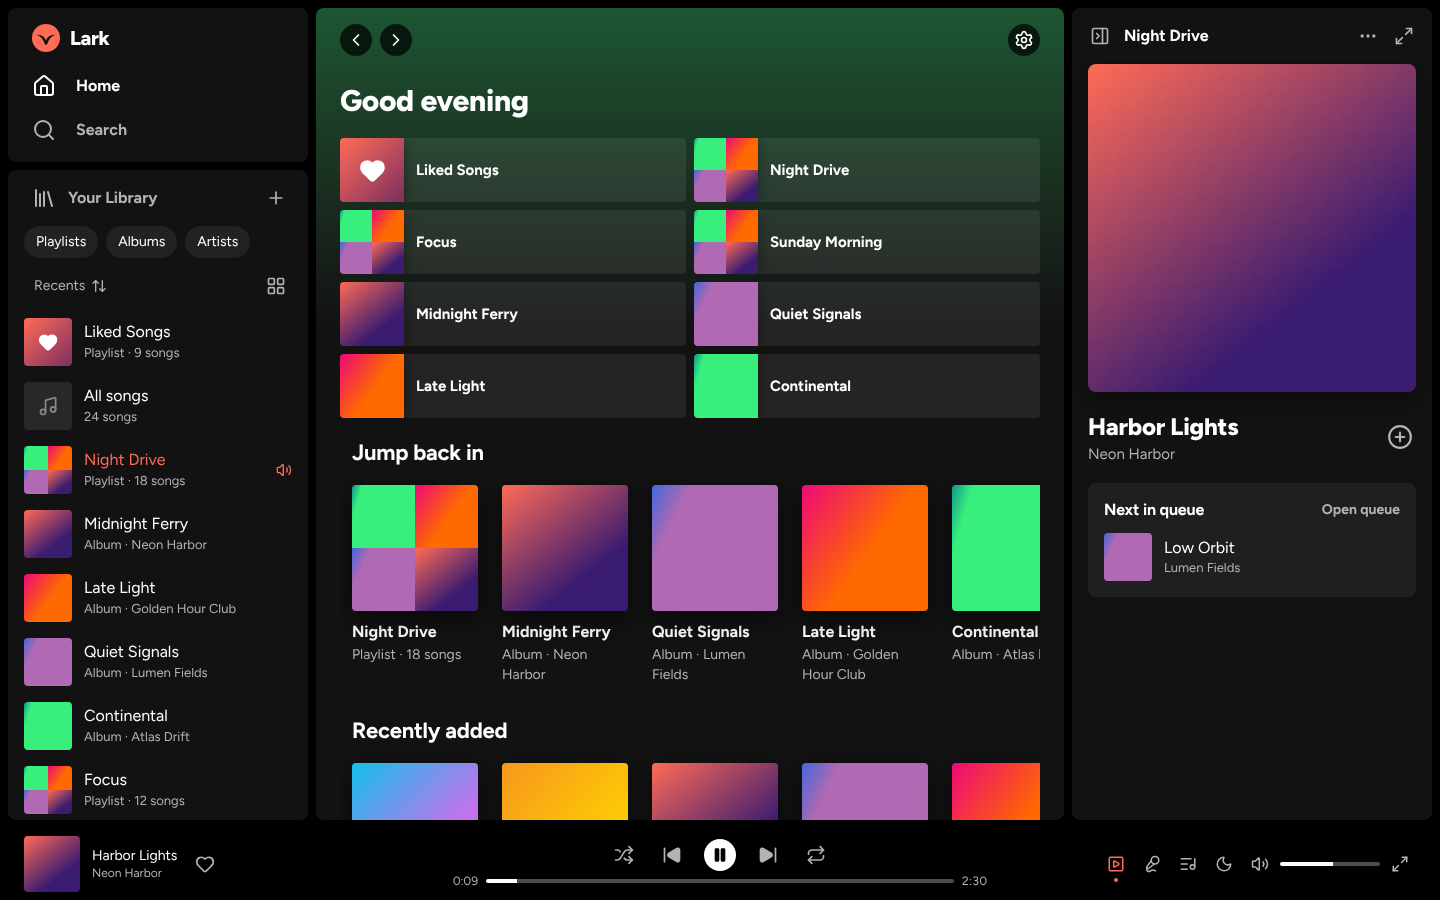
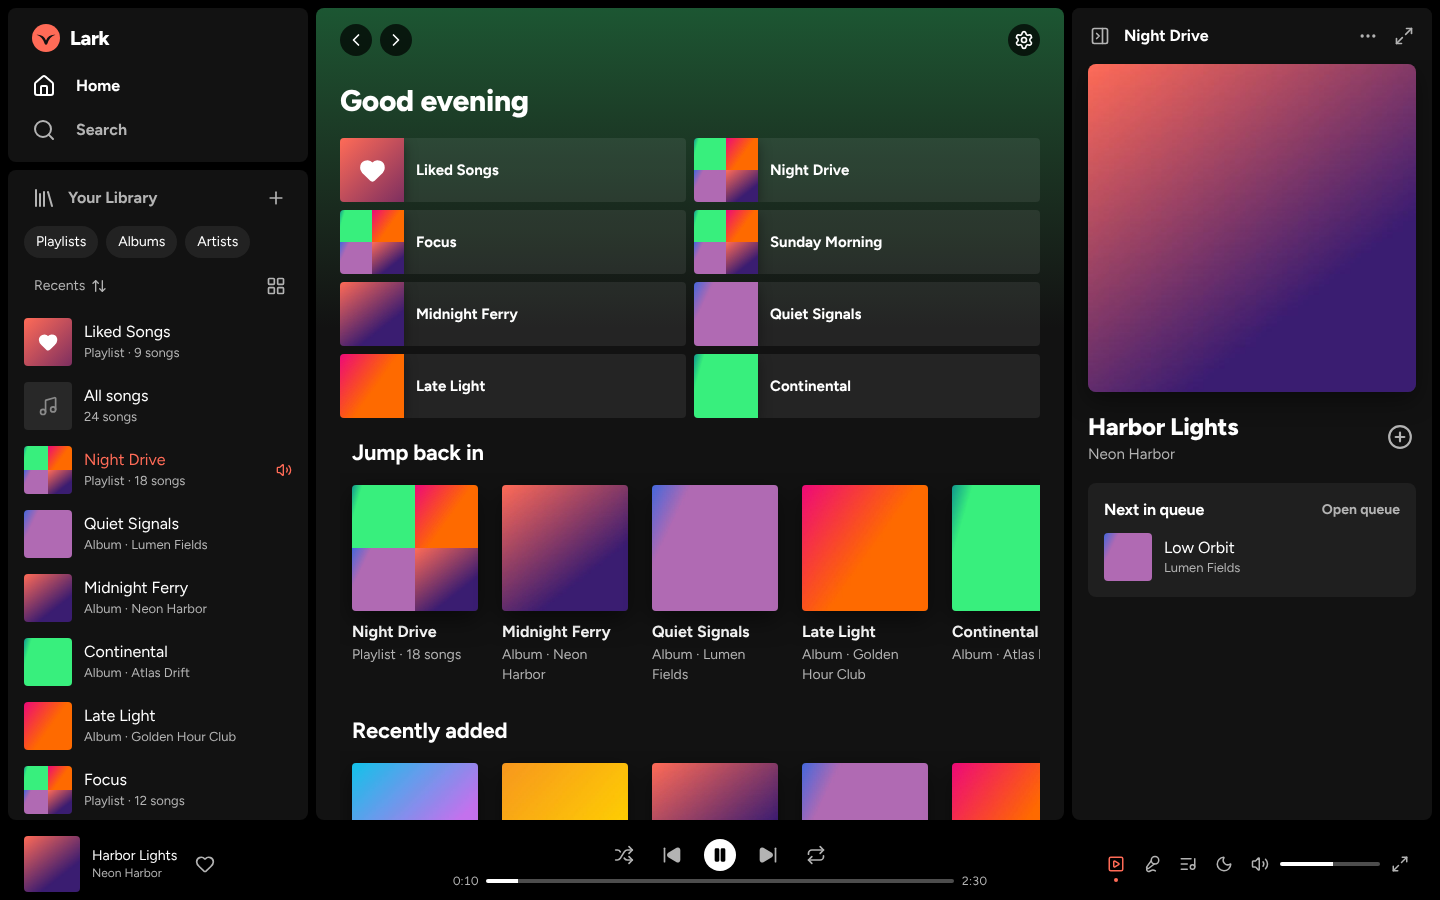
Remove albums, artists and All songs from Your Library
Right-click (long-press on phones) → "Remove from Your Library" hides an
album, artist, All songs or Liked Songs from the Your Library list, with
Undo. Nothing is deleted; the item's own ⋯ menu offers "Add to Your
Library". Saved with the library settings. Test added.

Claude-Session: https://claude.ai/code/session_016covFTdUFWBo4vfXdR9J8w

Changed region(s): [[0.0, 0.56, 0.1562, 0.84]]

diff --git a/src/js/ui/actions.js b/src/js/ui/actions.js
@@ -84,7 +84,7 @@ export function ctxMenu(c, at) {
       } }];
     items = tidy(items);
   } else if (c.type === 'album' || c.type === 'artist') {
-    items = [...queueItems, { label: 'Add to playlist', icon: 'list-plus', sub: () => addToPlaylistItems(ids()) }, '-',
+    items = [...queueItems, { label: 'Add to playlist', icon: 'list-plus', sub: () => addToPlaylistItems(ids()) }, libraryItem(c), '-',
       { label: c.type === 'album' ? 'Edit album' : `Edit all songs by this artist`, icon: 'pencil', run: () => bulkEdit(ids()) }];
     if (c.type === 'album') {
       const a = store.albums().get(c.id);
@@ -98,9 +98,19 @@ export function ctxMenu(c, at) {
         if (await confirmDialog('Delete folder?', `"${f.name}" will be deleted. Its playlists are kept.`)) { await store.deleteFolder(f.id); if (location.hash === `#/folder/${f.id}`) go('#/'); }
       } },
     ];
-  } else items = [...queueItems, { label: 'Add to playlist', icon: 'list-plus', sub: () => addToPlaylistItems(ids()) }];
+  } else items = [...queueItems, { label: 'Add to playlist', icon: 'list-plus', sub: () => addToPlaylistItems(ids()) }, ...(c.type === 'liked' || c.type === 'songs' ? [libraryItem(c)] : [])];
   const info = itemInfo(c);
   openMenu(items, at, info && { title: info.name, sub: info.sub, cover: coverHtml(info.covers, { liked: info.liked, icon: info.icon, cls: 'sm' }) });
+}
+
+/** "Remove from Your Library" (hides it from the list; nothing is deleted) / "Add to Your Library". */
+function libraryItem(c) {
+  const hidden = store.isHiddenInLibrary(c);
+  if (hidden) return { label: 'Add to Your Library', icon: 'circle-plus', run: () => { store.setHiddenInLibrary(c, false); toast('Added to Your Library'); } };
+  return { label: 'Remove from Your Library', icon: 'circle-minus', run: () => {
+    store.setHiddenInLibrary(c, true);
+    toast('Removed from Your Library', { label: 'Undo', run: () => store.setHiddenInLibrary(c, false) });
+  } };
 }
 
 /** Play a whole context (big play buttons), or pause/resume if it is already playing. */

diff --git a/src/js/ui/library.js b/src/js/ui/library.js
@@ -20,12 +20,12 @@ function items() {
       out.push({ c: { type: 'playlist', id: p.id }, name: p.name, pinned: p.pinned, added: p.createdAt, recent: Math.max(p.playedAt || 0, p.createdAt) });
     }
   }
-  if (f === 'all' || f === 'albums') for (const a of store.albums().values()) out.push({ c: { type: 'album', id: a.key }, name: a.name, added: a.addedAt, recent: Math.max(recent.get(`album:${a.key}`) || 0, a.addedAt) });
-  if (f === 'all' || f === 'artists') for (const a of store.artists().values()) out.push({ c: { type: 'artist', id: a.key }, name: a.name, added: a.addedAt, recent: Math.max(recent.get(`artist:${a.key}`) || 0, a.addedAt) });
+  if (f === 'all' || f === 'albums') for (const a of store.albums().values()) if (!store.isHiddenInLibrary({ type: 'album', id: a.key })) out.push({ c: { type: 'album', id: a.key }, name: a.name, added: a.addedAt, recent: Math.max(recent.get(`album:${a.key}`) || 0, a.addedAt) });
+  if (f === 'all' || f === 'artists') for (const a of store.artists().values()) if (!store.isHiddenInLibrary({ type: 'artist', id: a.key })) out.push({ c: { type: 'artist', id: a.key }, name: a.name, added: a.addedAt, recent: Math.max(recent.get(`artist:${a.key}`) || 0, a.addedAt) });
   const s = L.settings.libSort;
   out.sort((a, b) => (b.pinned ? 1 : 0) - (a.pinned ? 1 : 0)
     || (s === 'alpha' ? a.name.localeCompare(b.name) : s === 'added' ? b.added - a.added : b.recent - a.recent));
-  const fixed = f === 'all' || f === 'playlists' ? [{ c: { type: 'liked' }, pinned: true }, { c: { type: 'songs' }, pinned: true }] : [];
+  const fixed = (f === 'all' || f === 'playlists' ? [{ c: { type: 'liked' }, pinned: true }, { c: { type: 'songs' }, pinned: true }] : []).filter((x) => !store.isHiddenInLibrary(x.c));
   return [...fixed, ...out];
 }
 

diff --git a/src/js/store.js b/src/js/store.js
@@ -6,7 +6,7 @@ import { Emitter, norm, sha256, uid } from './util.js';
 export const DEFAULT_SETTINGS = {
   volume: 0.8, muted: false, crossfade: 0, normalize: false,
   eq: { enabled: false, preset: 'flat', gains: [0, 0, 0, 0, 0, 0] },
-  libFilter: 'all', libSort: 'recents', libView: 'list',
+  libFilter: 'all', libSort: 'recents', libView: 'list', libHidden: [],
 };
 
 export const lib = {
@@ -249,6 +249,15 @@ export function lastPlayed(type, id) {
 }
 
 // ---------- settings ----------
+// Albums, artists, All songs and Liked Songs can be removed from (hidden in) the Your Library list.
+const libItemKey = (c) => `${c.type}:${c.id ?? ''}`;
+export const isHiddenInLibrary = (c) => (lib.settings.libHidden || []).includes(libItemKey(c));
+export function setHiddenInLibrary(c, hidden) {
+  const set = new Set(lib.settings.libHidden || []);
+  if (hidden) set.add(libItemKey(c)); else set.delete(libItemKey(c));
+  return setSettings({ libHidden: [...set] });
+}
+
 export async function setSettings(patch) {
   Object.assign(lib.settings, patch);
   await db.kvSet('settings', lib.settings);

diff --git a/src/js/ui/icons.js b/src/js/ui/icons.js
@@ -49,12 +49,14 @@ import folderInput from 'lucide-static/icons/folder-input.svg';
 import squarePlay from 'lucide-static/icons/square-play.svg';
 import panelRightClose from 'lucide-static/icons/panel-right-close.svg';
 import circlePlus from 'lucide-static/icons/circle-plus.svg';
+import circleMinus from 'lucide-static/icons/circle-minus.svg';
 import circleCheck from 'lucide-static/icons/circle-check.svg';
 import clipboardPaste from 'lucide-static/icons/clipboard-paste.svg';
 const SVG = {
   'square-play': squarePlay,
   'panel-right-close': panelRightClose,
   'circle-plus': circlePlus,
+  'circle-minus': circleMinus,
   'circle-check': circleCheck,
   'clipboard-paste': clipboardPaste,
   'play': play,

diff --git a/src/js/ui/app.js b/src/js/ui/app.js
@@ -98,7 +98,7 @@ store.events.on('change', (what) => {
   if (current && (what === 'all' || current.view.deps?.includes(what))) scheduleRender();
 });
 store.events.on('settings', (patch) => {
-  if ('libFilter' in patch || 'libSort' in patch || 'libView' in patch) { renderSidebar(); if (current?.r.name === 'library') render(true); }
+  if ('libFilter' in patch || 'libSort' in patch || 'libView' in patch || 'libHidden' in patch) { renderSidebar(); if (current?.r.name === 'library') render(true); }
 });
 function refreshPlayButtons() {
   $$('.big-play[data-ctx]').forEach((b) => {

diff --git a/README.md b/README.md
@@ -16,7 +16,7 @@ More in [docs/screenshots](docs/screenshots).
 ## Features
 
 - **Add music** by file picker, drag and drop, or a whole folder (computer). MP3 plus whatever the browser plays: M4A/AAC, FLAC, OGG, Opus, WAV. Tags are read: title, artist, album, album artist, track, year, genre, cover art, lyrics. A matching `.lrc` file gives synced lyrics. Files without tags use the name (`Artist - Title.mp3`). Duplicates (same file content) are skipped. Imports run in the background with a progress bar.
-- **Library**: Liked Songs, All songs, Recently played, automatic Albums and Artists pages from the tags, playlists with folders and pinning, "Your Library" with filters, sorting and list/grid view, and typo-tolerant search.
+- **Library**: Liked Songs, All songs, Recently played, automatic Albums and Artists pages from the tags, playlists with folders and pinning, "Your Library" with filters, sorting and list/grid view (right-click or long-press an album or artist to remove it from the list), and typo-tolerant search.
 - **Editing**: song title, artist, album, cover (paste an image with Ctrl+V or "Paste image", upload and crop, or reuse another cover) and lyrics; bulk edit of several songs; playlist name, description and cover (default: a 4-cover mosaic). Your original files are never changed.
 - **Playback**: shuffle (every song once before repeats), repeat off/all/one, queue ("Next in queue" before "Next from: …"; play next, add, reorder, remove, clear), previous restarts the song after 3 s, volume up to 150% (boosted above 100%, with a limiter), crossfade 0–12 s, near-gapless playback, volume normalisation (ReplayGain tags, otherwise measured), a 6-band equaliser with presets, a sleep timer (minutes or end of song), and synced lyrics. Lark remembers the song, position and queue after closing.
 - **Controls**: lock screen, notification, Bluetooth/headphone buttons and keyboard media keys (Media Session), plus keyboard shortcuts on computers (listed in Settings).
